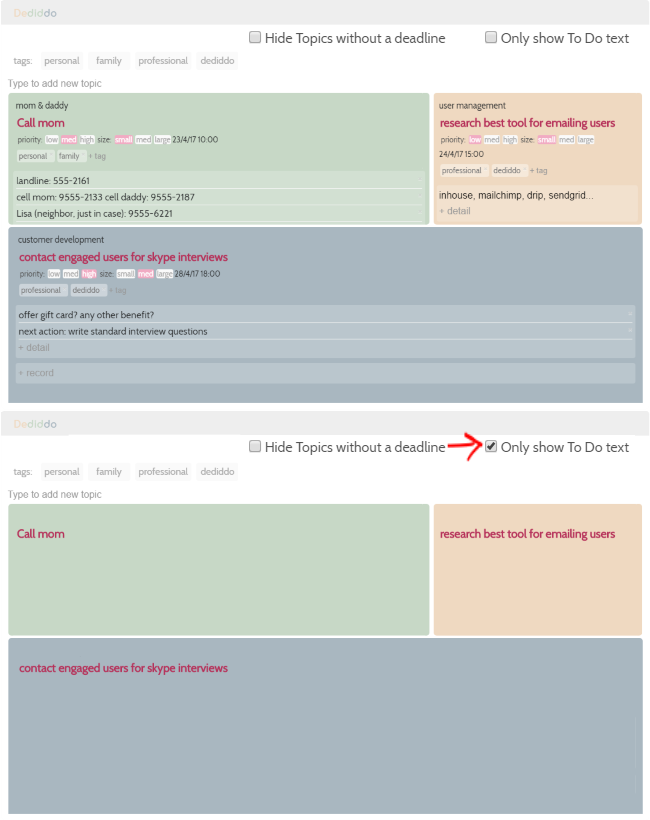
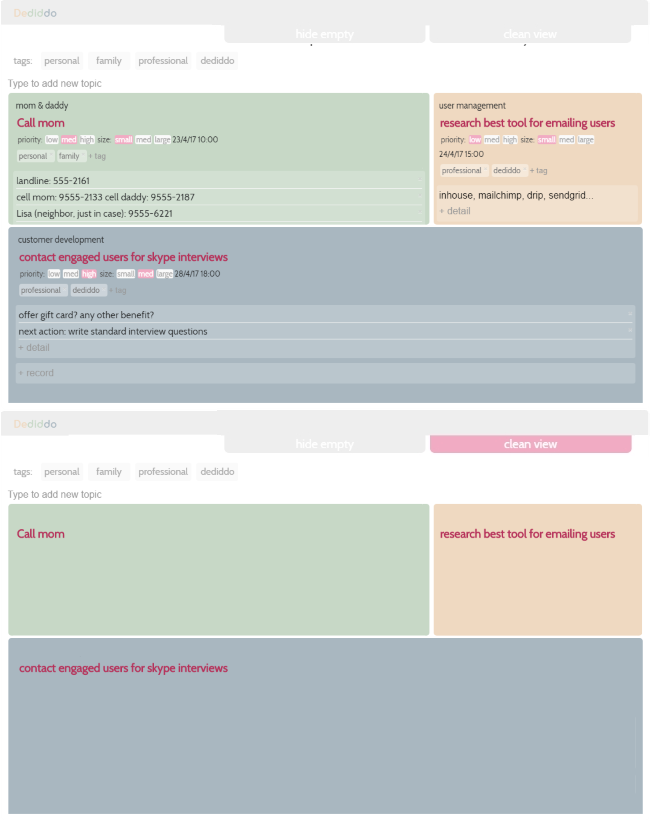
minor corrections on the guides because of change from filter no deadline to filter no to do

diff --git a/imports/ui/Landing.jsx b/imports/ui/Landing.jsx
@@ -148,7 +148,7 @@ export default class Landing extends Component {
 								<div className="col-12">
 								<div className="guide-section-lp">
 								   <h5 className="text-center guide-show-lp" onClick={() => this.toggleShowGuideOne()}>What is a Topic and what is inside it?</h5>
-								   <p>TL;DR: topic, to do, priority, size, deadline, tags, details, and records.</p>
+								   <p className="guide-show-lp-subtitle" >TL;DR: topic, to do, priority, size, deadline, tags, details, and records.</p>
 								   {this.state.showGuideOne ?
 								   <div className="row justify-content-center align-items-center">           
 									 <div className="col-sm-7">
@@ -170,7 +170,7 @@ export default class Landing extends Component {
 
 								 <div className="guide-section-lp">
 								   <h5 className="text-center guide-show-lp" onClick={() => this.toggleShowGuideTwo()}>How are the Topics sized and ordered?</h5>
-								   <p>TL;DR: width and color = priority, height = task size, and position = deadline.</p>
+								   <p className="guide-show-lp-subtitle" >TL;DR: width and color = priority, height = task size, and position = deadline.</p>
 								   {this.state.showGuideTwo ?
 								   <div className="row justify-content-center align-items-center">           
 									 <div className="col-sm-7">
@@ -196,11 +196,11 @@ export default class Landing extends Component {
 
 								<div className="guide-section-lp">
 								   <h5 className="text-center guide-show-lp" onClick={() => this.toggleShowGuideThree()}>How to better view and filter the to-dos?</h5>
-								   <p>TL;DR: filter by tag, filter out topics with no deadline, clean view of to-do text only</p>
+								   <p className="guide-show-lp-subtitle" >TL;DR: filter by tag, filter out topics with no to-do, clean view of to-do text only</p>
 								   {this.state.showGuideThree ?
 								   <div className="row justify-content-center align-items-center">           
 									 <div className="col-sm-7">
-										<p><strong>Filter Topics with no To Do by clicking on <em>clean view</em>.</strong><br></br>
+										<p><strong>Filter Topics with no To Do by clicking on <em>hide empty</em>.</strong><br></br>
 										It will hide every Topic with an empty To Do text.<br></br>
 										A deadline is empty when the Topic is created or when you edit the deadline and clean the input field.<br></br>
 										You can use this filter for Topics that do not have a immediate To Do, but that you don't want to delete.
@@ -210,7 +210,7 @@ export default class Landing extends Component {
 										You create a Tag directly at the Topics. Any tag created at any Topic will automatically be listed on the top tag menu.<br></br>
 										You can select multiple tags and it will show all Topics that have any one of the selected tags. Remember that a Topic with no tags will not be listed whenever any one tag is selected.
 										</p>						
-										<p><strong>For a very clean view of you have on your To Do list click to <em>only show To Do text</em> .</strong><br></br>
+										<p><strong>For a minimalistic view of your To Do list click on <em>clean view</em>.</strong><br></br>
 										It will hide every information on every topic, except the To Do.<br></br>
 										The Topic color, width, and height will stay the same, as well as any filter by tag or deadline that is set.<br></br>
 										You won't be able to edit any info (except the To Do) when this view is set. Click again the checkbox to edit other fields.

diff --git a/imports/ui/Guide.jsx b/imports/ui/Guide.jsx
@@ -93,7 +93,7 @@ export default class Guide extends Component {
 				   <h5 className="text-center">How to better view and filter the to-dos?</h5>
 				   <div className="row justify-content-center align-items-center">           
 					 <div className="col-sm-7">
-						<p><strong>Filter Topics with no To Do by clicking on <em>clean view</em>.</strong><br></br>
+						<p><strong>Filter Topics with no To Do by clicking on <em>hide empty</em>.</strong><br></br>
 						It will hide every Topic with an empty To Do text.<br></br>
 						A deadline is empty when the Topic is created or when you edit the deadline and clean the input field.<br></br>
 						You can use this filter for Topics that do not have a immediate To Do, but that you don't want to delete.
@@ -103,7 +103,7 @@ export default class Guide extends Component {
 						You create a Tag directly at the Topics. Any tag created at any Topic will automatically be listed on the top tag menu.<br></br>
 						You can select multiple tags and it will show all Topics that have any one of the selected tags. Remember that a Topic with no tags will not be listed whenever any one tag is selected.
 						</p>						
-						<p><strong>For a very clean view of you have on your To Do list click to <em>only show To Do text</em> .</strong><br></br>
+						<p><strong>For a minimalistic view of your To Do list, click on <em>clean view</em>.</strong><br></br>
 						It will hide every information on every topic, except the To Do.<br></br>
 						The Topic color, width, and height will stay the same, as well as any filter by tag or deadline that is set.<br></br>
 						You won't be able to edit any info (except the To Do) when this view is set. Click again the checkbox to edit other fields.

diff --git a/client/main.css b/client/main.css
@@ -671,9 +671,9 @@ filter: progid:DXImageTransform.Microsoft.gradient( startColorstr='#efd9c1', end
 .guide-section-lp h5 {
 	margin-bottom: 3px!important;
 }
-.guide-section-lp p:first-of-type {
+.guide-show-lp-subtitle {
 	text-align: center;
-	color: #333;
+	color: #777;
 }
 
 .guide-hide {
